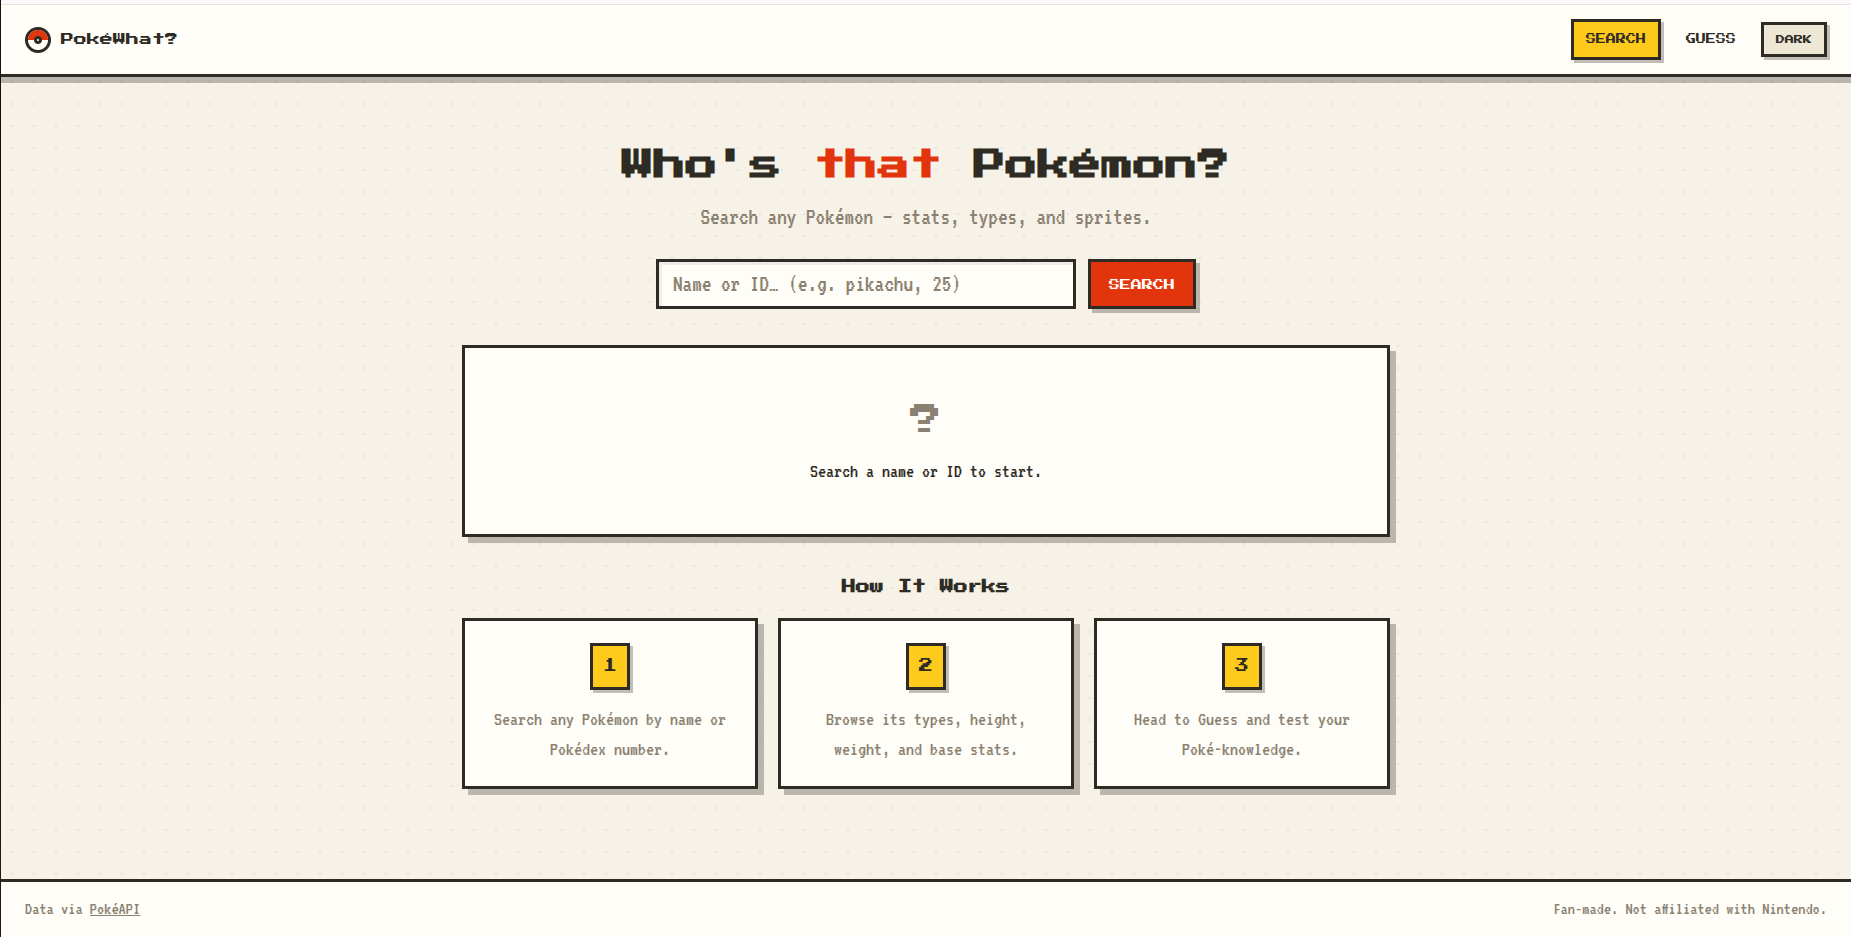
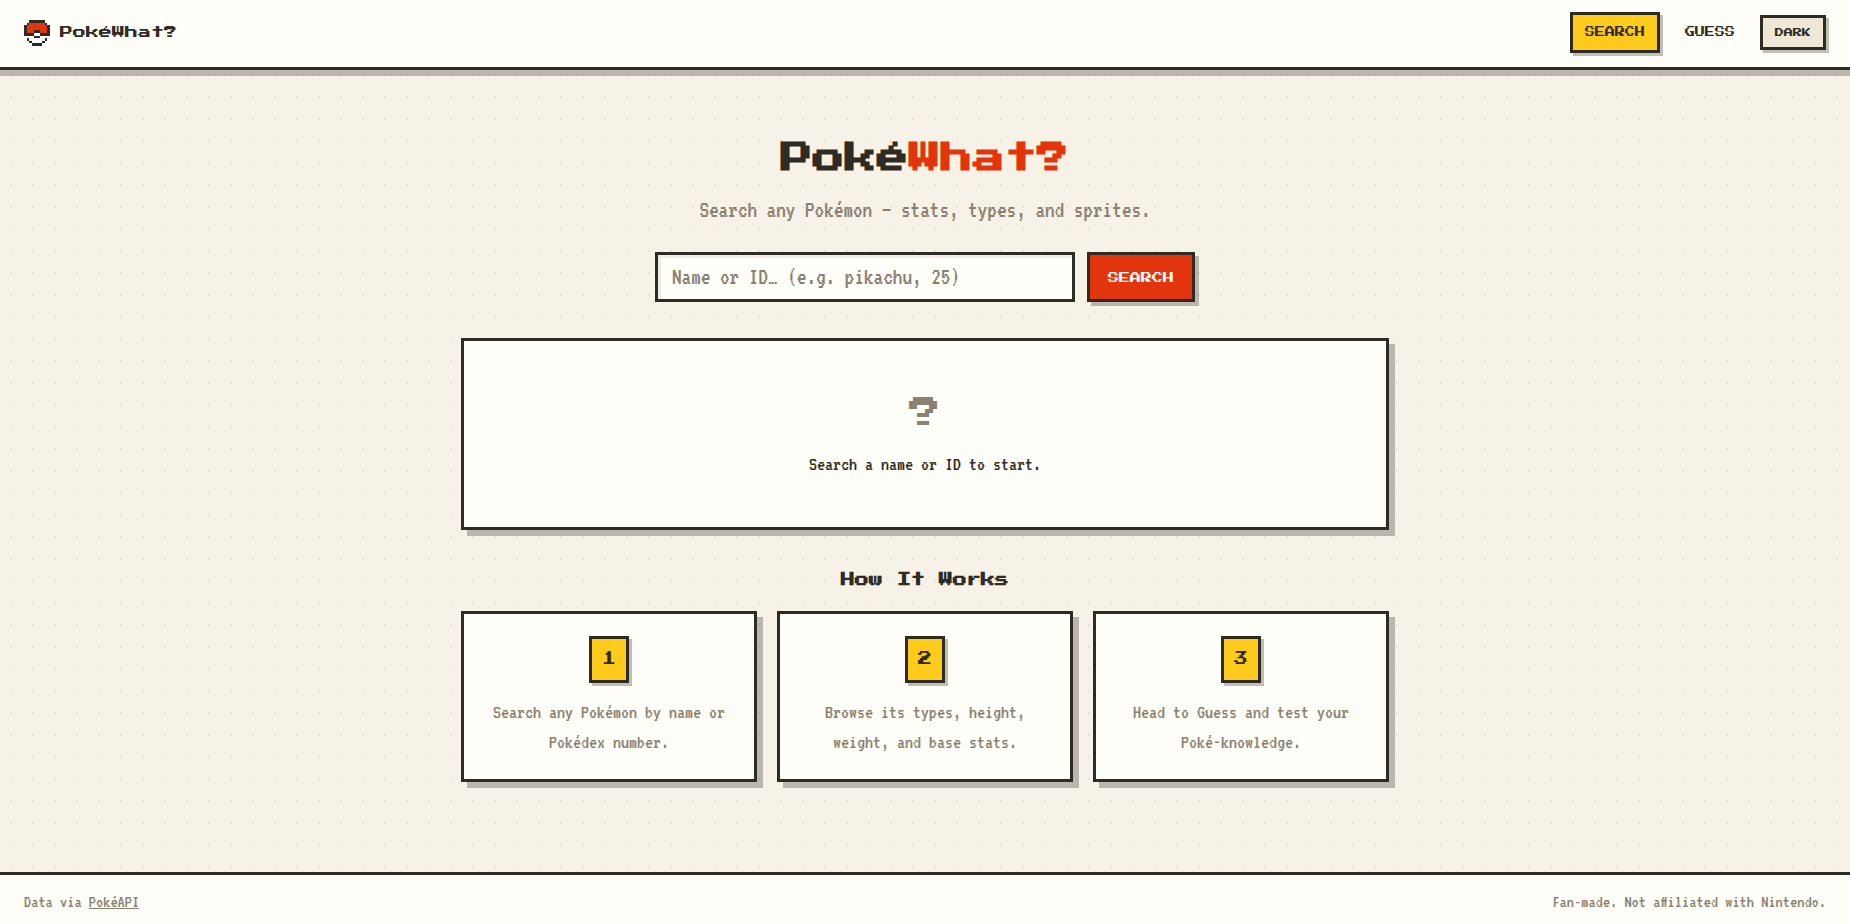
style: minor improvement to darkmode

diff --git a/index.html b/index.html
@@ -214,7 +214,8 @@
                         <!-- PokéWhat? -->
                         <a href="https://poke-what.vercel.app/" target="_blank" rel="noopener noreferrer" class="card project-card" data-reveal>
                             <div class="card-media">
-                                <img src="assets/pokewhat.png" alt="PokéWhat? screenshot" loading="lazy">
+                                <img src="assets/pokewhat.png" alt="PokéWhat? screenshot" loading="lazy" class="card-img card-img-light">
+                                <img src="assets/pokewhat_dark.png" alt="PokéWhat? screenshot in dark mode" loading="lazy" class="card-img card-img-dark">
                             </div>
                             <div class="card-body">
                                 <p class="card-kicker mono">web app</p>

diff --git a/css/style.css b/css/style.css
@@ -636,6 +636,7 @@ main {
 }
 
 .card-media {
+    position: relative;
     aspect-ratio: 16 / 9;
     overflow: hidden;
     border-bottom: 1px solid var(--gray-200);
@@ -645,7 +646,24 @@ main {
     width: 100%;
     height: 100%;
     object-fit: cover;
-    transition: transform 0.5s ease;
+    transition: transform 0.5s ease, opacity 0.5s ease;
+}
+
+.card-img {
+    position: absolute;
+    inset: 0;
+}
+
+.card-img-dark {
+    opacity: 0;
+}
+
+:root[data-theme='dark'] .card-img-light {
+    opacity: 0;
+}
+
+:root[data-theme='dark'] .card-img-dark {
+    opacity: 1;
 }
 
 .card:hover .card-media img {
